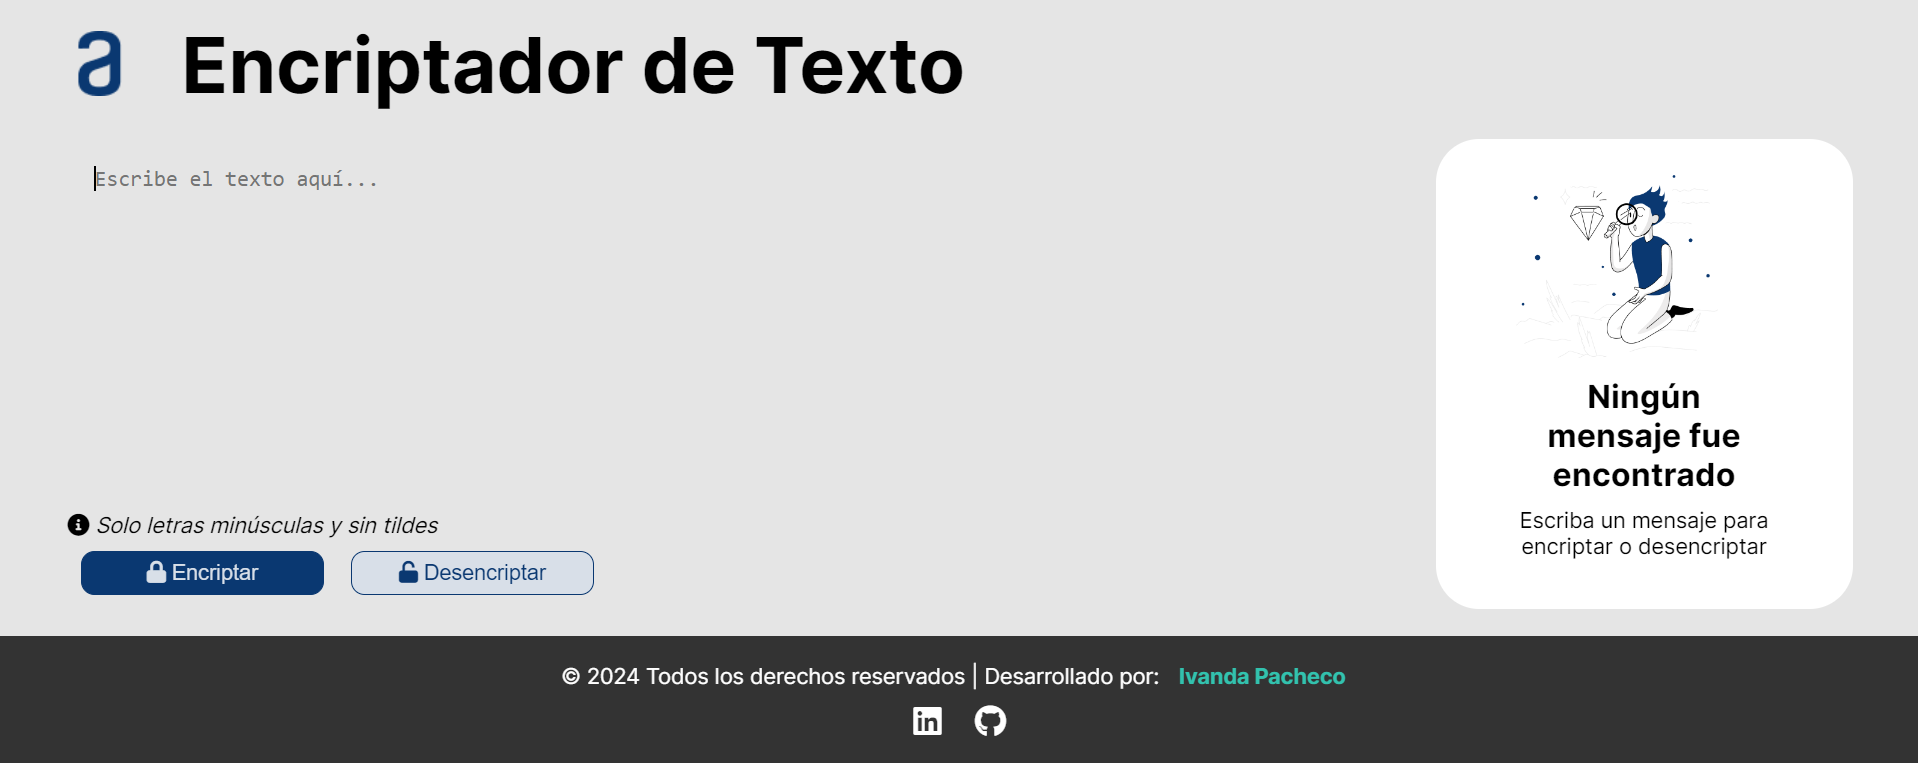
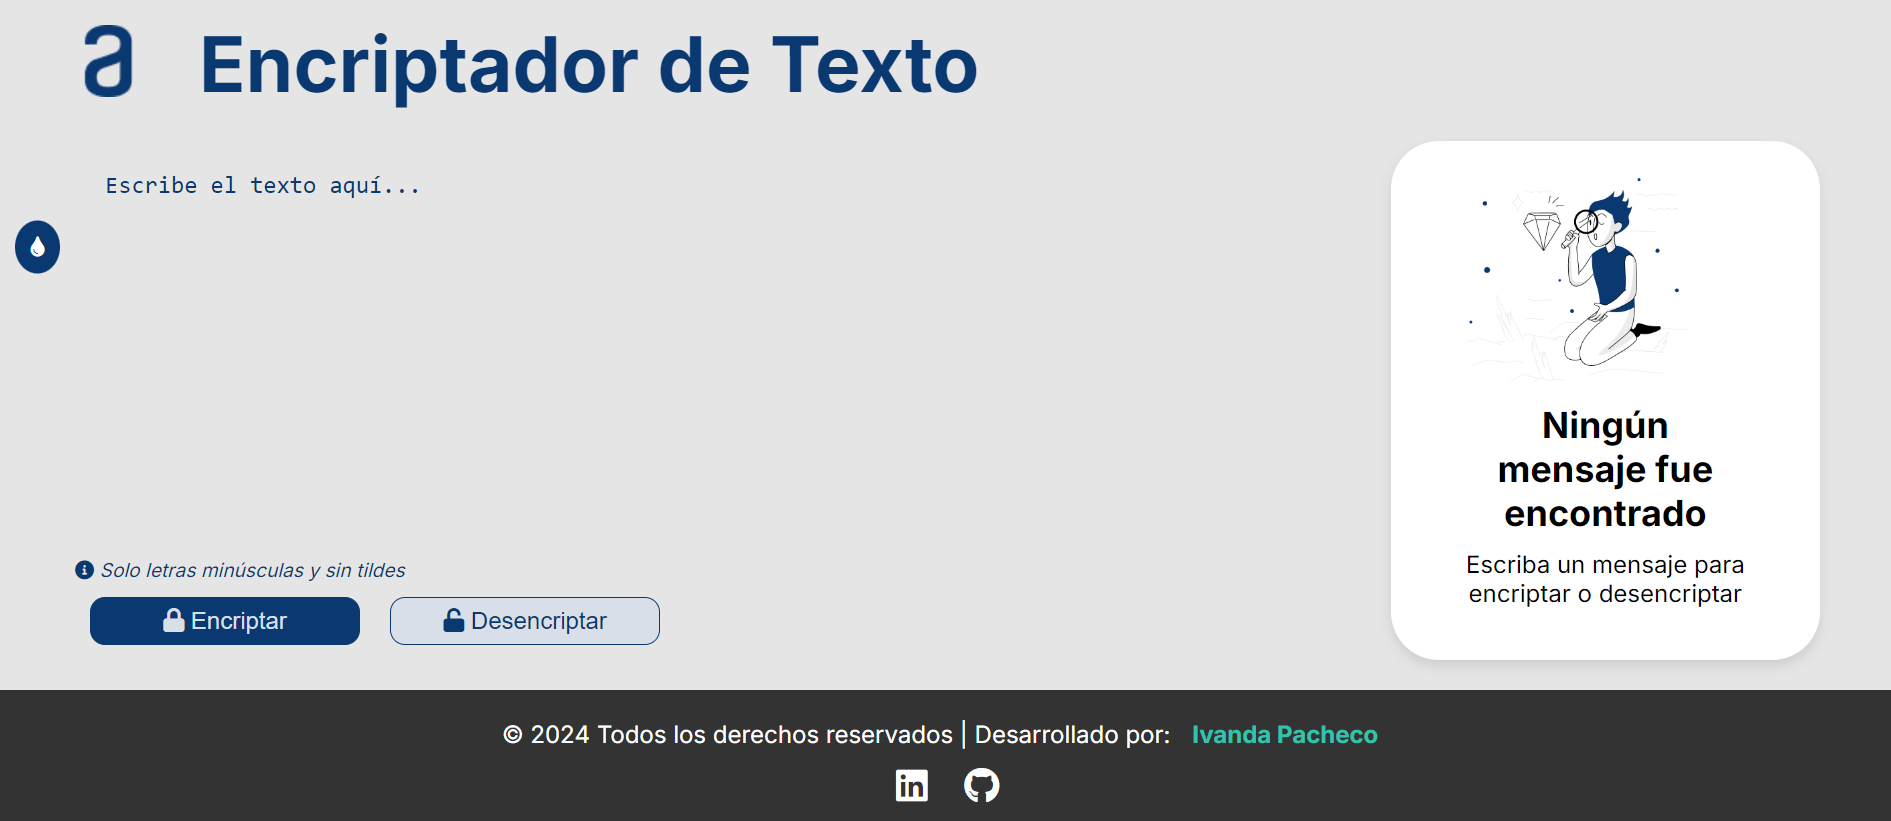
Actualiza archivo readme para incluir interfaz inicial y el uso de temas

diff --git a/index.html b/index.html
@@ -78,8 +78,7 @@
                         Copiar
                     </button>
                     <button class="button-limpiar" title="Limpiar Texto" onclick="limpiarTextoEncriptado()">
-                        <i class="fas fa-trash-alt"></i>
-                        
+                        <i class="fas fa-trash-alt"></i>        
                     </button>
                  </div>
              </div>

diff --git a/style.css b/style.css
@@ -263,7 +263,7 @@
   background-color: var(--secondary-color);
   border: solid 1px var(--text-color);
   font-size: var(--font-size);
-  margin: 5px;
+  margin: -5px;
   padding: 6px 6px ;
   border-radius: 5px;
   cursor: pointer;

diff --git a/README.md b/README.md
@@ -20,6 +20,18 @@
 - **Desencriptación de Texto**: Restaura el mensaje original a partir del texto encriptado.
 - **Copia al Portapapeles**: Copia el texto encriptado o desencriptado con un solo clic.
 - **Interfaz Responsiva**: Diseño adaptable para dispositivos móviles y de escritorio.
+- **Temas Personalizables**: Cambia entre tres esquemas de color predefinidos (Oscuro, Cálido, Fresco) para ajustar la apariencia de la aplicación según tu preferencia.
+
+## Uso de Temas
+
+### Cambiar el Esquema de Color
+
+1. **Selecciona un Tema**: Haz clic en el botón de selección de colores de la aplicación.
+2. **Elige una Opción de Color**: Se desplegará un menú con tres opciones de esquema de color. Puedes seleccionar entre:
+   - **Oscuro**: Un tema con tonos oscuros para una apariencia elegante y moderna.
+   - **Cálido**: Un esquema de colores cálidos para una sensación acogedora.
+   - **Fresco**: Un tema con tonos fríos para una apariencia relajante.
+3. **Restaurar Valores Predeterminados**: Si deseas volver a la configuración de colores original, haz clic en el botón de restaurar.
 
 ## Uso
 
